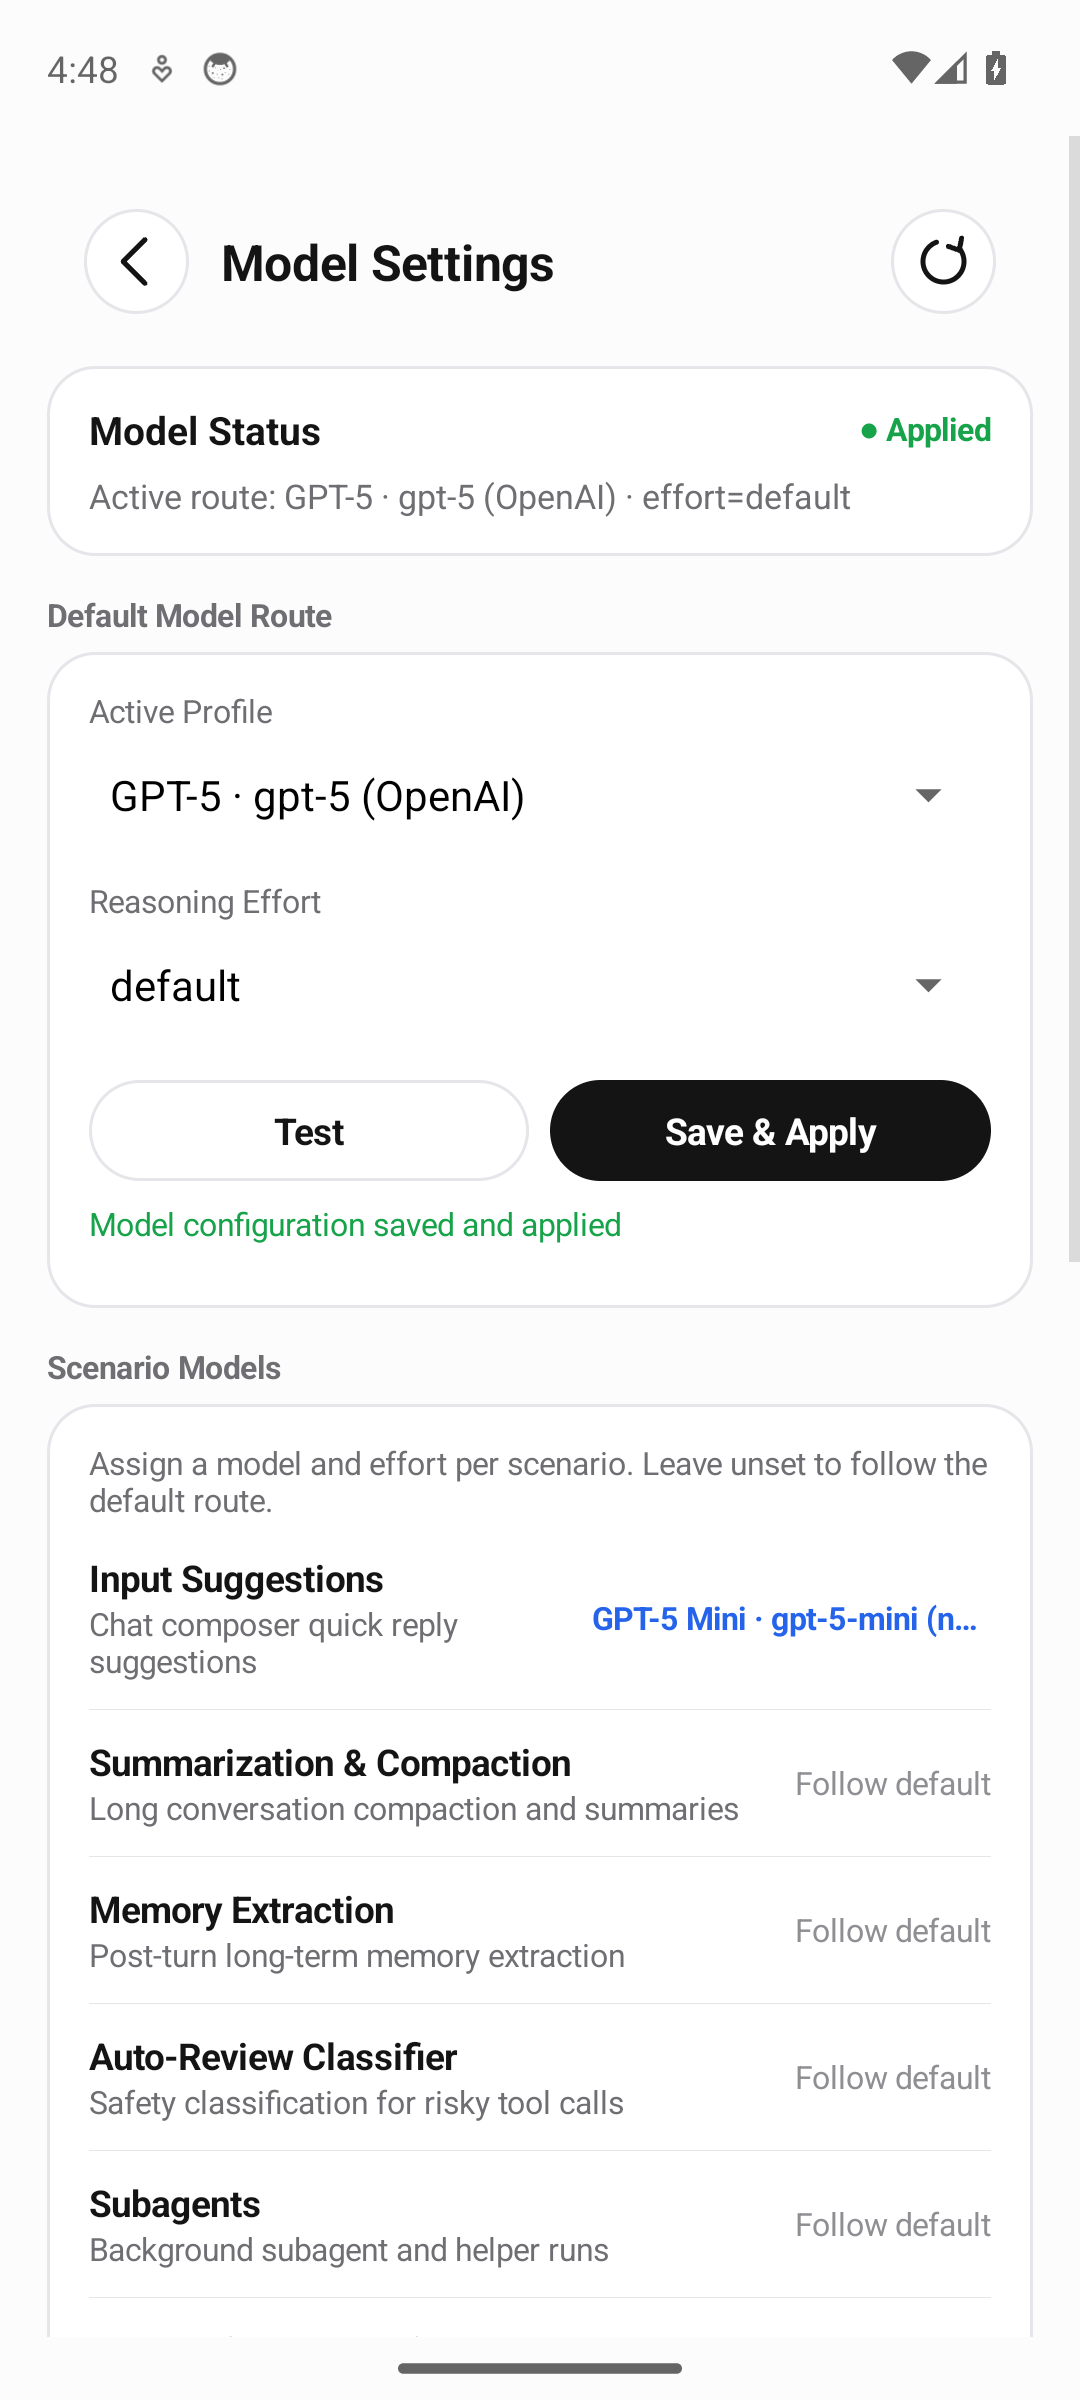
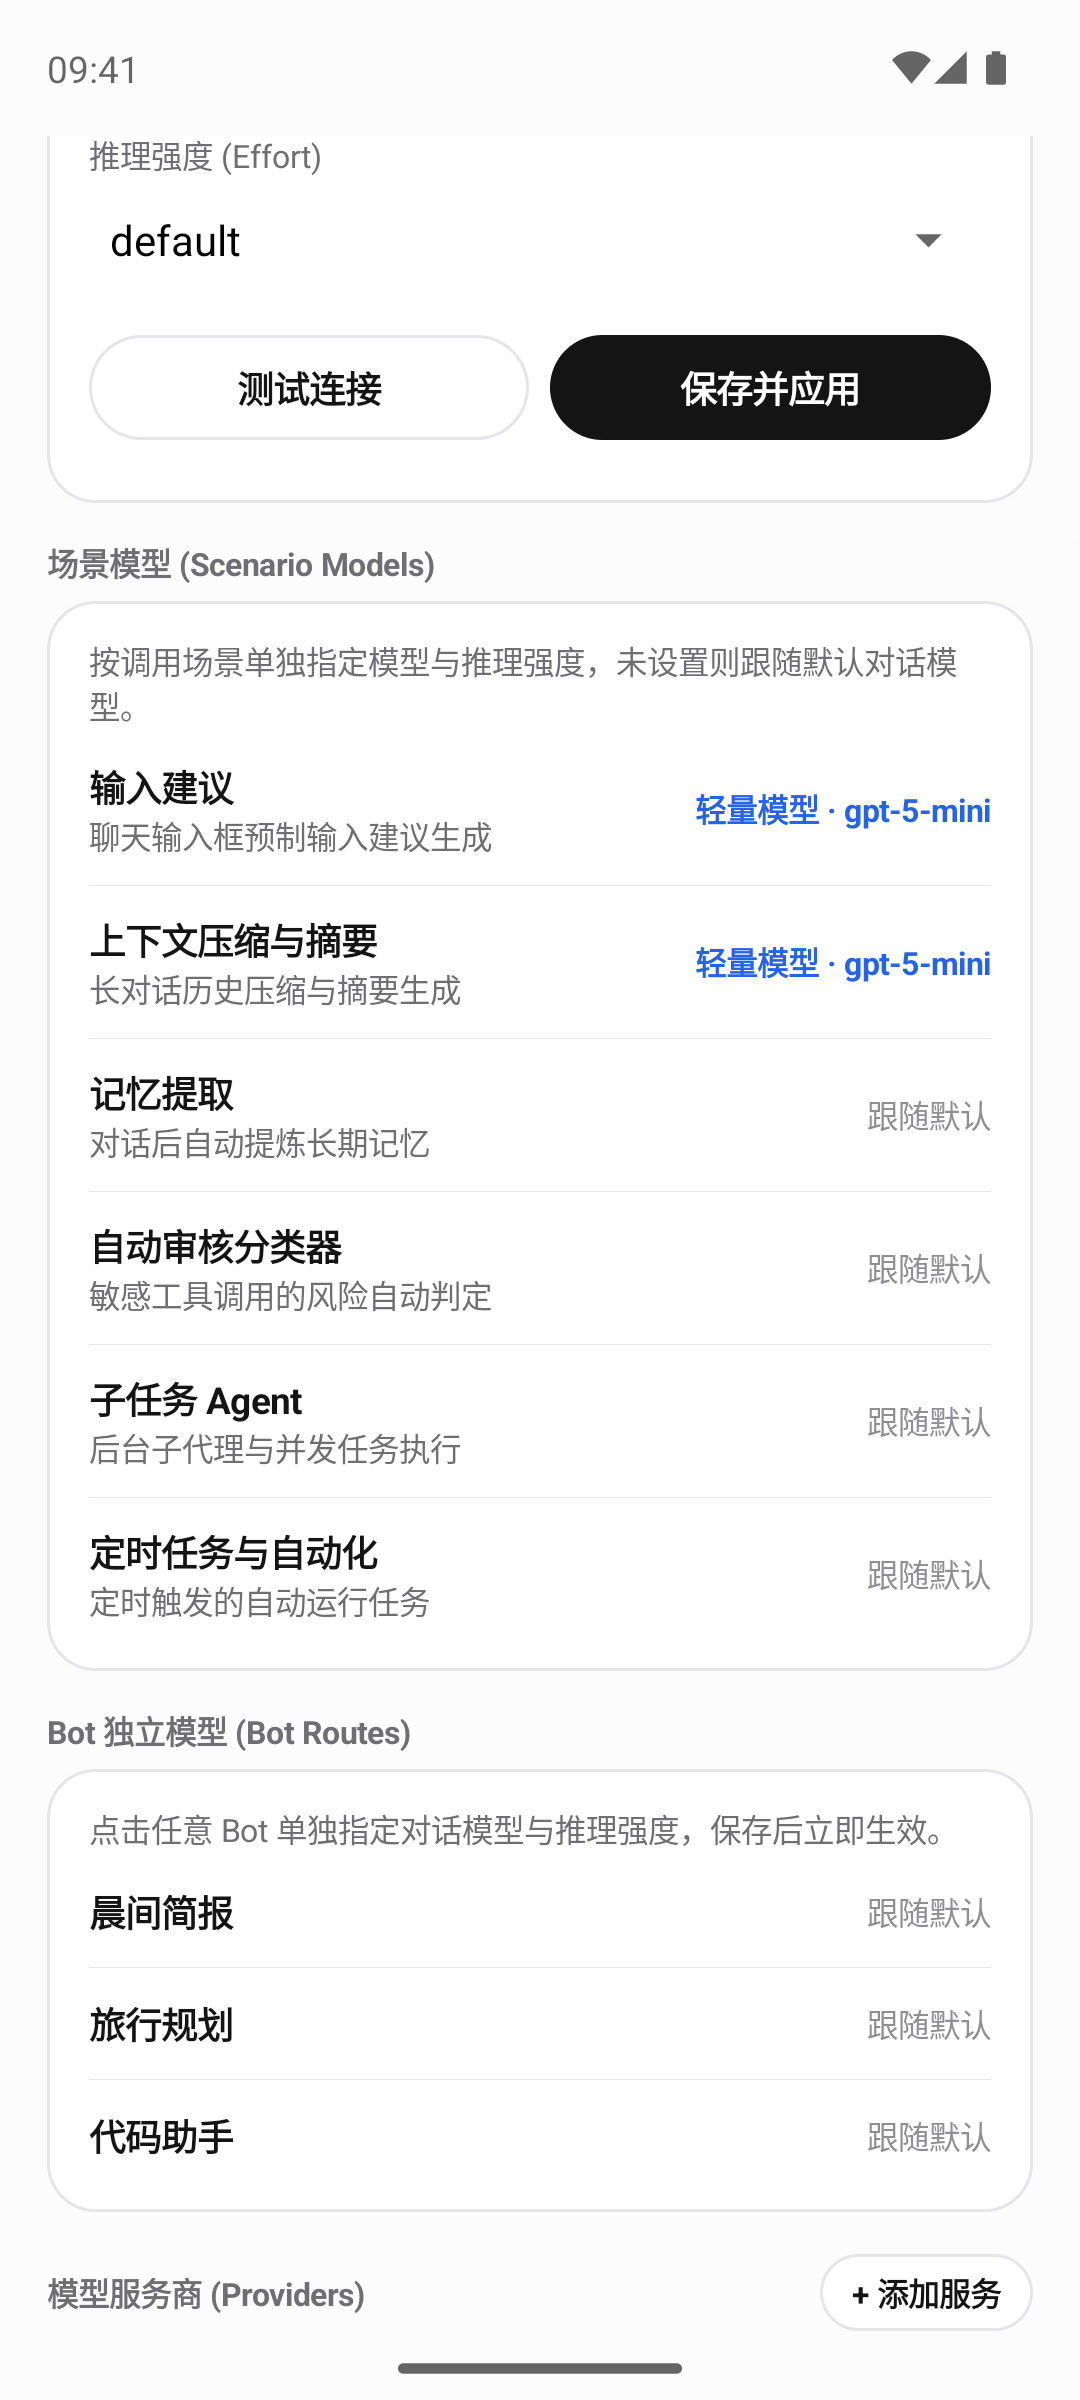
docs: use Chinese demo screenshots for suggestions, scenario models, + menu and create group

diff --git a/README.en.md b/README.en.md
@@ -158,10 +158,10 @@ The chat list, a conversation, Bot details and the approval card are shown at th
     <td align="center"><img src="docs/images/rokbot-android-about.png" width="190" alt="App version and update status at the bottom of Settings" /><br /><sub>About and updates</sub></td>
   </tr>
   <tr>
-    <td align="center"><img src="docs/images/rokbot-android-suggestions.png" width="190" alt="Composer input suggestions above the group chat input box" /><br /><sub>Input suggestions</sub></td>
+    <td align="center"><img src="docs/images/rokbot-android-suggestions.png" width="190" alt="Input suggestions above the chat input box" /><br /><sub>Input suggestions</sub></td>
     <td align="center"><img src="docs/images/rokbot-android-scenario-models.png" width="190" alt="Scenario models section in Model Settings" /><br /><sub>Scenario models</sub></td>
-    <td></td>
-    <td></td>
+    <td align="center"><img src="docs/images/rokbot-android-plus-menu.png" width="190" alt="The + menu with New Bot and New Group" /><br /><sub>New menu</sub></td>
+    <td align="center"><img src="docs/images/rokbot-android-create-group.png" width="190" alt="Create group: name the group and pick member Bots" /><br /><sub>Create group</sub></td>
   </tr>
 </table>
 
